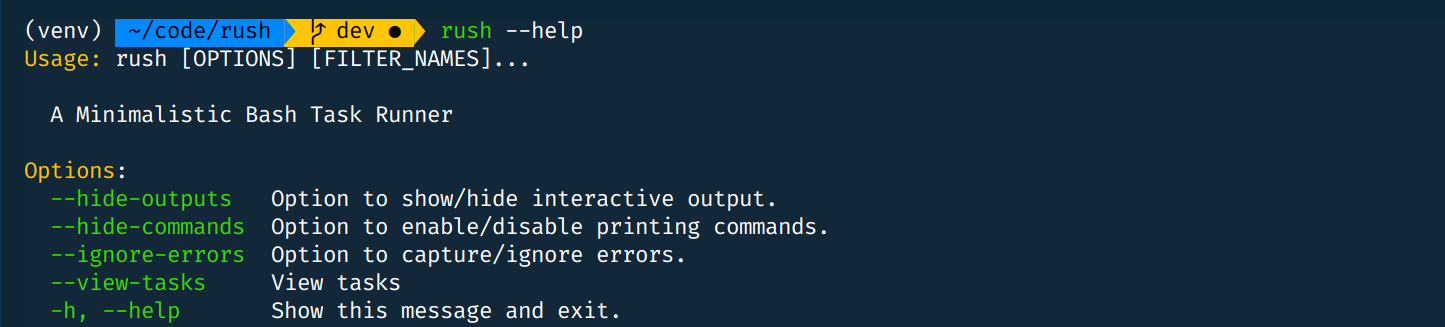
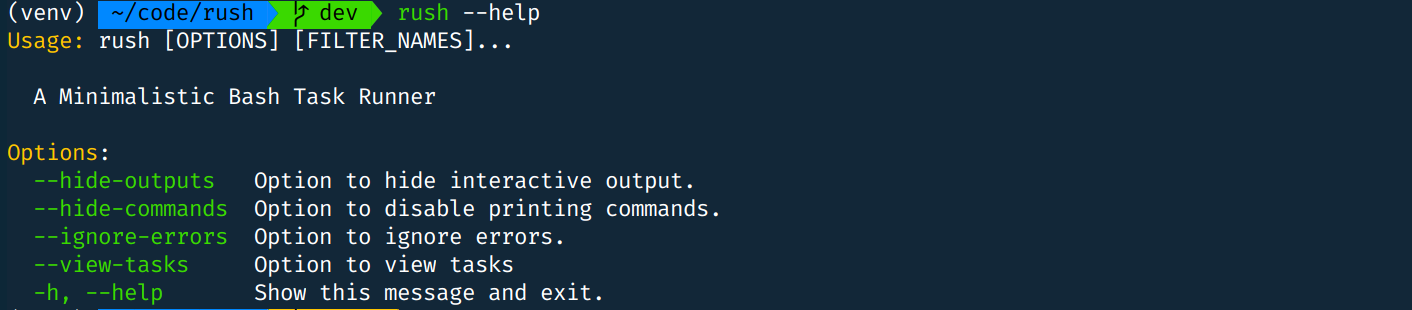
Changed options

Changed region(s): [[0.0, 0.4645, 0.5921, 1.0], [0.0, 0.0, 0.4051, 0.2323], [0.0, 0.2903, 0.3116, 0.3774]]

diff --git a/rush_cli/cli.py b/rush_cli/cli.py
@@ -20,21 +20,21 @@ colorama.init(strip=False)
     "--hide-outputs",
     is_flag=True,
     default=True,
-    help="Option to show/hide interactive output.",
+    help="Option to hide interactive output.",
 )
 @click.option(
     "--hide-commands",
     is_flag=True,
     default=True,
-    help="Option to enable/disable printing commands.",
+    help="Option to disable printing commands.",
 )
 @click.option(
     "--ignore-errors",
     is_flag=True,
     default=True,
-    help="Option to capture/ignore errors.",
+    help="Option to ignore errors.",
 )
-@click.option("--view-tasks", is_flag=True, default=False, help="View tasks")
+@click.option("--view-tasks", is_flag=True, default=False, help="Option to view tasks")
 @click.argument("filter_names", required=False, nargs=-1)
 def entrypoint(*, filter_names, hide_outputs, hide_commands, ignore_errors, view_tasks):
     """A Minimalistic Bash Task Runner"""
